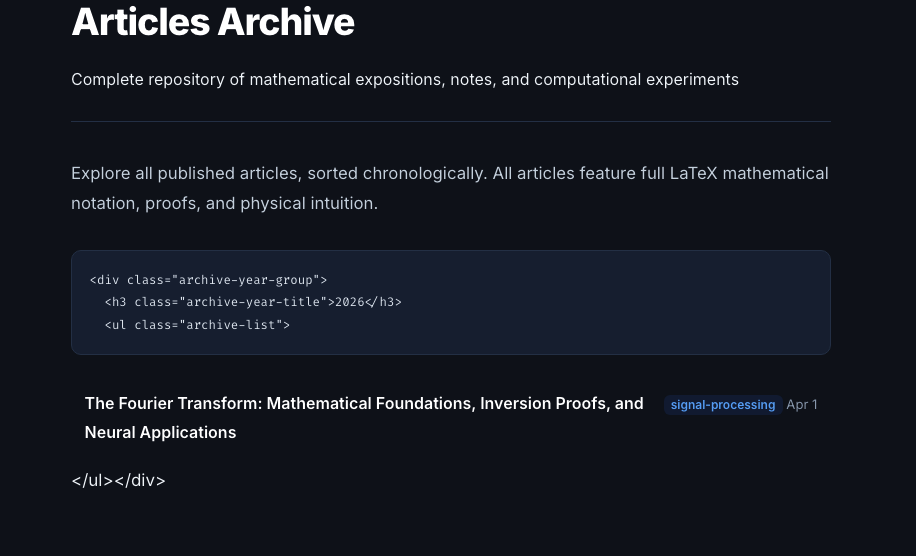
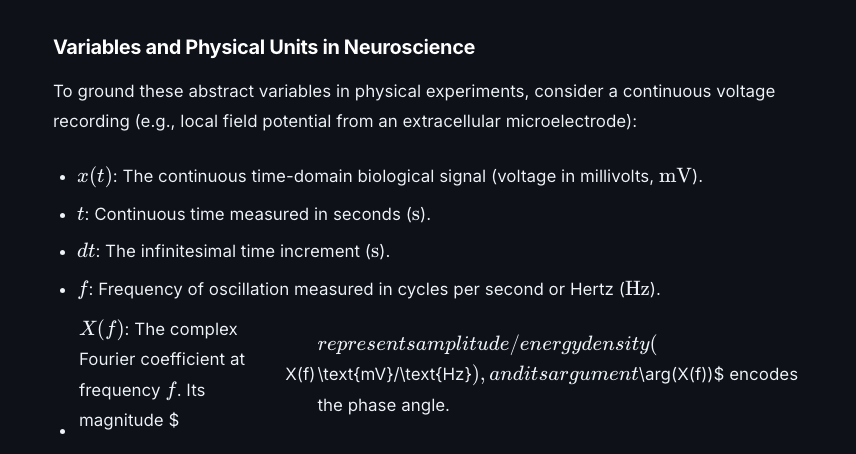
Fix line 54 equation delimiters and MathJax pipe evaluation

diff --git a/index.html b/index.html
@@ -53,15 +53,14 @@ title: Home
       <div class="pillar-icon">🧠</div>
       <h3 class="pillar-title">Brain Modelling</h3>
       <p class="pillar-desc">
-        Translating biological voltage signals and neural time-series into mathematical and dynamical systems models of cognitive computation.
-      </p>
+          Translating biological signals into mathematical and dynamical systems models to understand the computational mechanisms underlying cognition.      </p>
     </div>
 
     <div class="pillar-card">
       <div class="pillar-icon">⚡</div>
       <h3 class="pillar-title">Deep Learning & Math</h3>
       <p class="pillar-desc">
-        Exploring Gaussian integrals, high-dimensional probability, optimization dynamics, and theoretical foundations of representation learning.
+        Exploring theoretical foundations of deep learning.
       </p>
     </div>
   </div>

diff --git a/_includes/mathjax.html b/_includes/mathjax.html
@@ -11,7 +11,7 @@
         color: [],
         colorV2: ['color']
       },
-      packages: {'[+]': ['noerrors', 'physics']}
+      packages: {'[+]': ['noerrors', 'ams']}
     },
     chtml: {
       scale: 1,

diff --git a/_posts/2026-04-01-the-fourier-transform-theory-proofs-and-neural-applications.md b/_posts/2026-04-01-the-fourier-transform-theory-proofs-and-neural-applications.md
@@ -51,7 +51,7 @@ To ground these abstract variables in physical experiments, consider a continuou
 * **$t$**: Continuous time measured in seconds ($\text{s}$).
 * **$dt$**: The infinitesimal time increment ($\text{s}$).
 * **$f$**: Frequency of oscillation measured in cycles per second or Hertz ($\text{Hz}$).
-* **$X(f)$**: The complex Fourier coefficient at frequency $f$. Its magnitude $|X(f)|$ represents amplitude/energy density ($\text{mV}/\text{Hz}$), and its argument $\arg(X(f))$ encodes the phase angle.
+* **$X(f)$**: The complex Fourier coefficient at frequency $f$. Its magnitude $\vert X(f) \vert$ represents amplitude and energy density (in $\text{mV}/\text{Hz}$), and its argument $\arg(X(f))$ encodes the phase angle.
 
 ---
 
